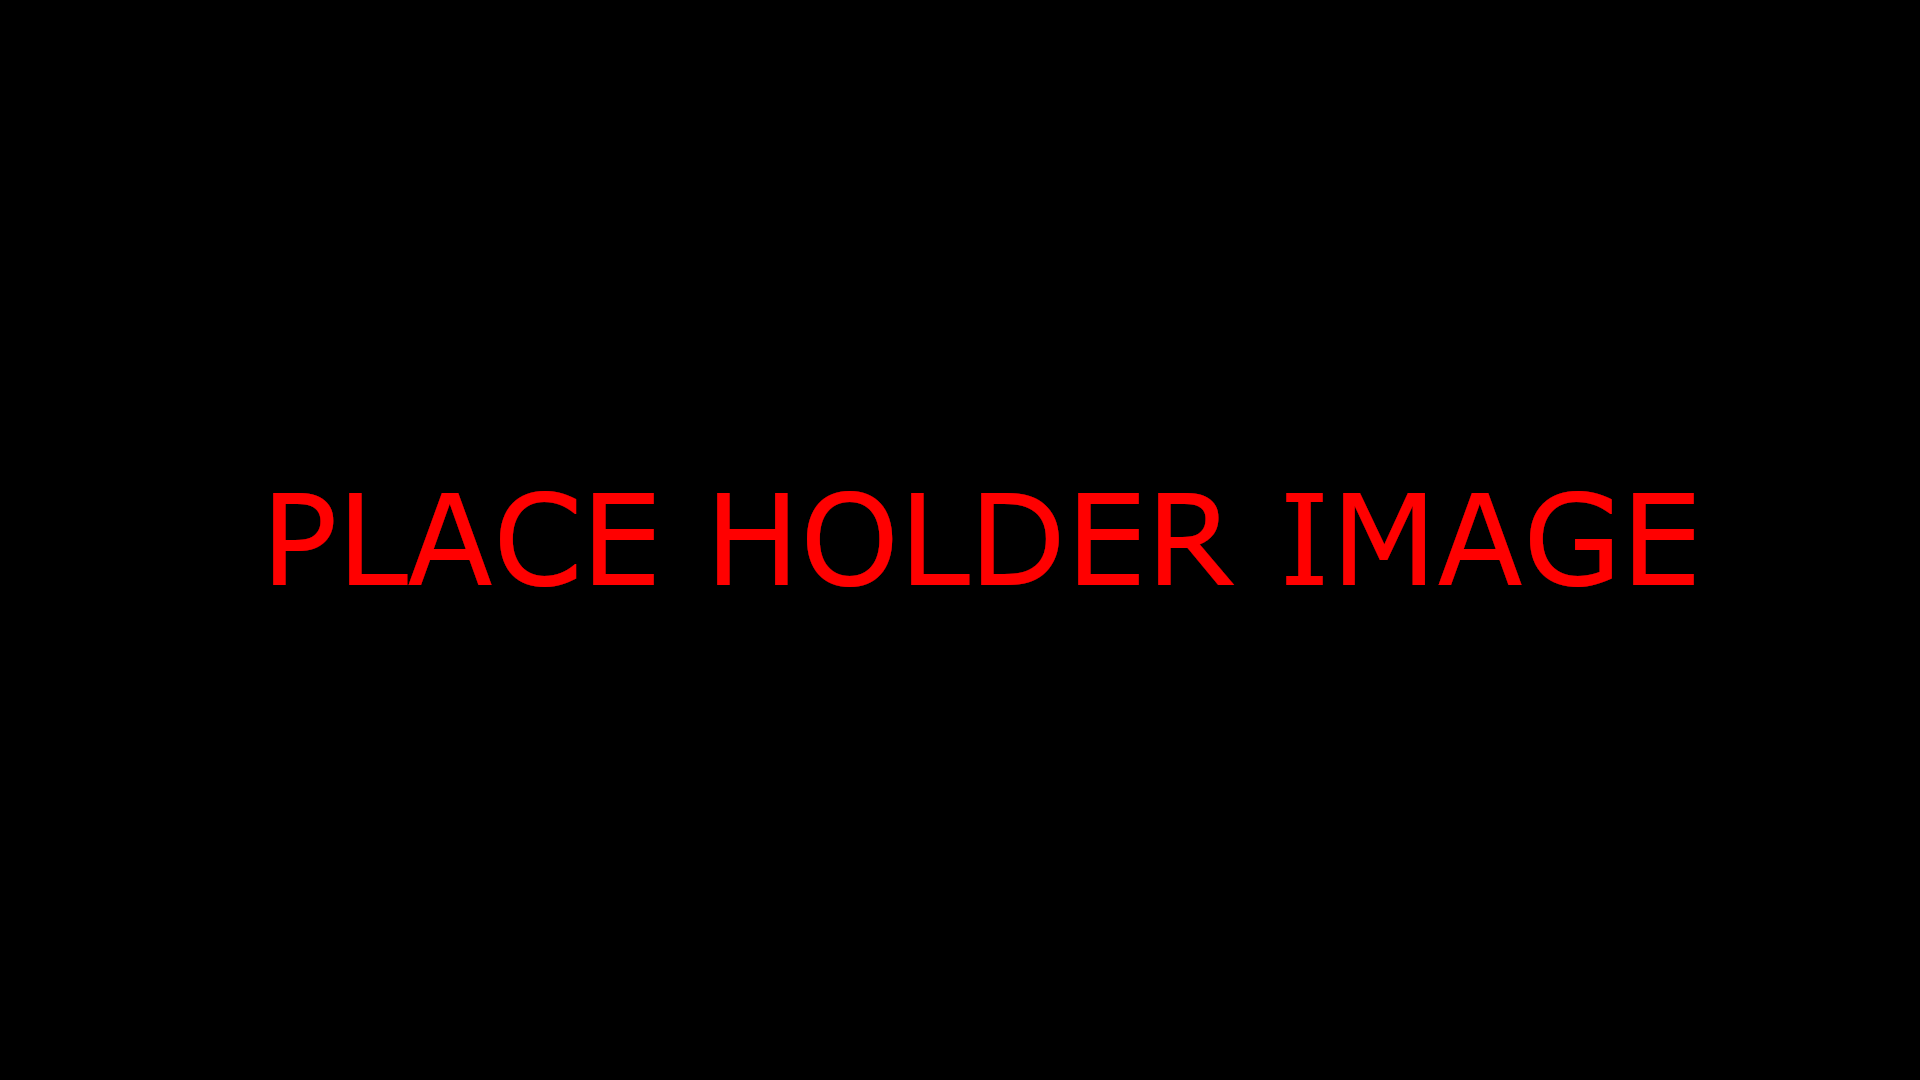
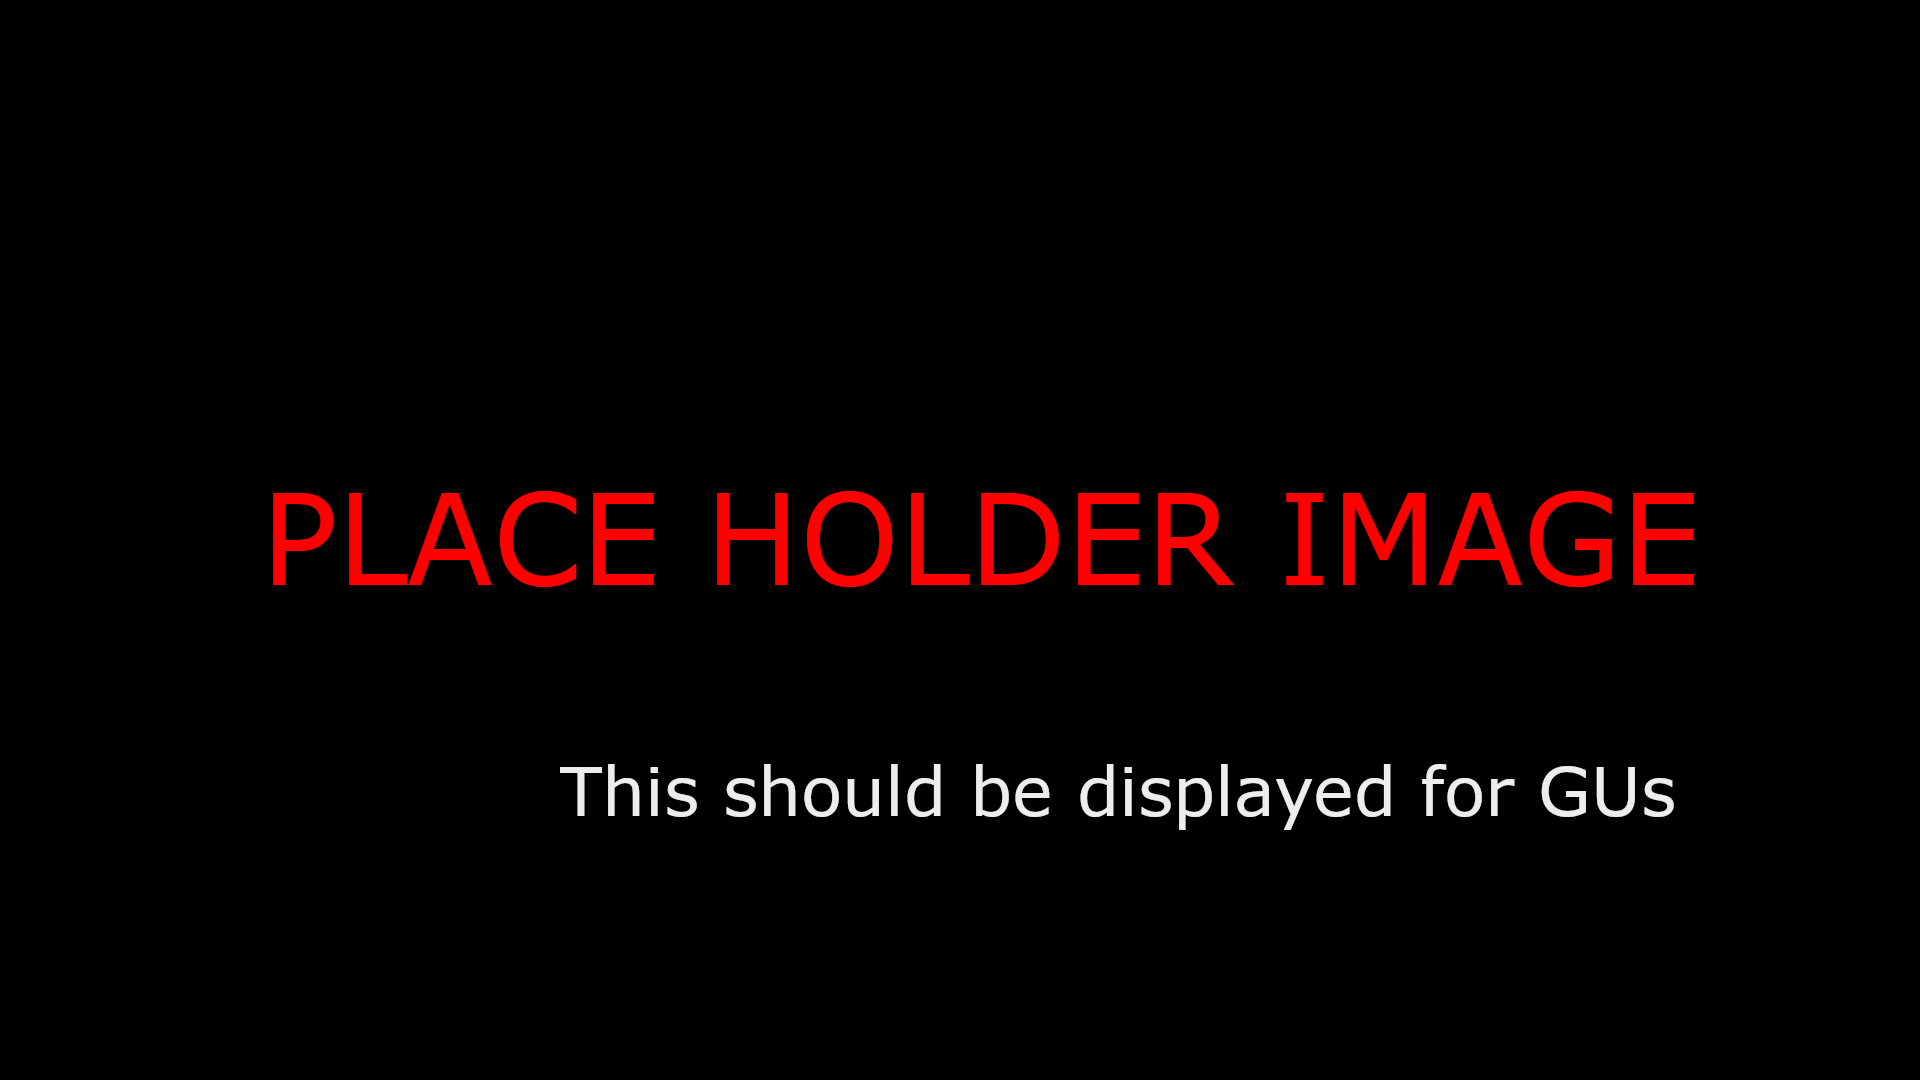
changed some stuff related to the home screen display.

Changed region(s): [[0.2812, 0.7028, 0.875, 0.7639]]

diff --git a/src/Ebamazon/controller/HomeViewController.java b/src/Ebamazon/controller/HomeViewController.java
@@ -1,9 +1,9 @@
 package Ebamazon.controller;
 
+import java.io.File;
 import java.io.IOException;
 import java.net.URL;
 import java.util.ArrayList;
-import java.util.List;
 import java.util.ResourceBundle;
 
 import Ebamazon.model.CurrentSession;
@@ -11,12 +11,14 @@ import Ebamazon.model.UserStatus;
 import javafx.fxml.FXML;
 import javafx.fxml.FXMLLoader;
 import javafx.scene.Node;
+import javafx.scene.control.ScrollPane;
+import javafx.scene.image.Image;
 import javafx.scene.layout.VBox;
 
 public class HomeViewController {
 
     private CurrentSession currentSession;
-    private ArrayList<Node> auctions;
+    private ArrayList<AuctionComponentViewController> auctions;
 
     @FXML
     private ResourceBundle resources;
@@ -28,20 +30,46 @@ public class HomeViewController {
     private VBox mainVBox;
 
     @FXML
+    private ScrollPane auctionScrollPane;
+
+    @FXML
+    private VBox scrollableVBox;
+
+    @FXML
     void initialize() throws IOException {
+        auctionScrollPane.setFitToHeight(true);
+        auctionScrollPane.setFitToWidth(true);
+        auctions = new ArrayList<>();
+        attachNewAuction();
+        attachNewAuction();
+        attachNewAuction();
+        attachNewAuction();
+    }
+
+    private void attachNewAuction(){
         FXMLLoader auctionComponentLoader = new FXMLLoader();
         auctionComponentLoader.setLocation(getClass().getResource("../view/auctionComponentView.fxml"));
-        Node auctionComponent = auctionComponentLoader.load();
-        auctions = new ArrayList<>();
-        auctions.add(auctionComponent);
-        mainVBox.getChildren().add(auctionComponent);
+        try {
+            Node auctionComponent = auctionComponentLoader.load();
+            scrollableVBox.getChildren().add(auctionComponent);
+        }
+        catch (Exception e){
+            System.out.println("auction component controller not loaded");
+        }
+        AuctionComponentViewController acvc = auctionComponentLoader.getController();
+        auctions.add(acvc);
     }
 
     public void setCurrentSession(CurrentSession currentSession) {
         this.currentSession = currentSession;
+        //if ordinary user
         if (currentSession.getUserStatus()== UserStatus.OU){
-            //change image file
-            //auctions.get(0).
+            //change image file test code
+            auctions.get(0).updateDisplayImage(new Image(getClass().getResourceAsStream("../../resources/testimage2.png")));
+        }
+        //if guest user
+        else if (currentSession.getUserStatus() == UserStatus.GU){
+            auctions.get(0).updateDisplayImage(new Image(getClass().getResourceAsStream("../../resources/testimage.png")));
         }
     }
 }

diff --git a/src/Ebamazon/controller/BannerController.java b/src/Ebamazon/controller/BannerController.java
@@ -107,16 +107,27 @@ import javafx.scene.layout.VBox;
             FXMLLoader homeViewLoader = new FXMLLoader();
             homeViewLoader.setLocation(getClass().getResource("../view/homeView.fxml"));
             Node homeview = homeViewLoader.load();
+            HomeViewController hvc = homeViewLoader.getController();
+            hvc.setCurrentSession(currentSession);
             parent.setCenter(homeview);
             parent.setAlignment(parent.getCenter(), Pos.TOP_CENTER);
         }
 
         @FXML
-        void logout(ActionEvent event){
+        void logout(ActionEvent event) throws IOException {
             currentSession.setCurUser(new User());
             navBarController.configureButtons(currentSession);
             loggedInVBox.setVisible(false);
             loginContainerVBox.setVisible(true);
+
+            //intialize homeview controller and view
+            FXMLLoader homeViewLoader = new FXMLLoader();
+            homeViewLoader.setLocation(getClass().getResource("../view/homeView.fxml"));
+            Node homeview = homeViewLoader.load();
+            HomeViewController hvc = homeViewLoader.getController();
+            hvc.setCurrentSession(currentSession);
+            parent.setCenter(homeview);
+            parent.setAlignment(parent.getCenter(), Pos.TOP_CENTER);
         }
 
         @FXML

diff --git a/src/Ebamazon/controller/AuctionComponentViewController.java b/src/Ebamazon/controller/AuctionComponentViewController.java
@@ -1,0 +1,29 @@
+package Ebamazon.controller;
+import java.net.URL;
+import java.util.ResourceBundle;
+import javafx.fxml.FXML;
+import javafx.scene.image.Image;
+import javafx.scene.image.ImageView;
+
+public class AuctionComponentViewController {
+
+    @FXML
+    private ResourceBundle resources;
+
+    @FXML
+    private URL location;
+
+    @FXML
+    private ImageView auctionImage;
+
+    @FXML
+    void initialize() {
+        assert auctionImage != null : "fx:id=\"auctionImage\" was not injected: check your FXML file 'auctionComponentView.fxml'.";
+    }
+
+    public void updateDisplayImage(Image image){
+        auctionImage.setImage(image);
+    }
+
+}
+
